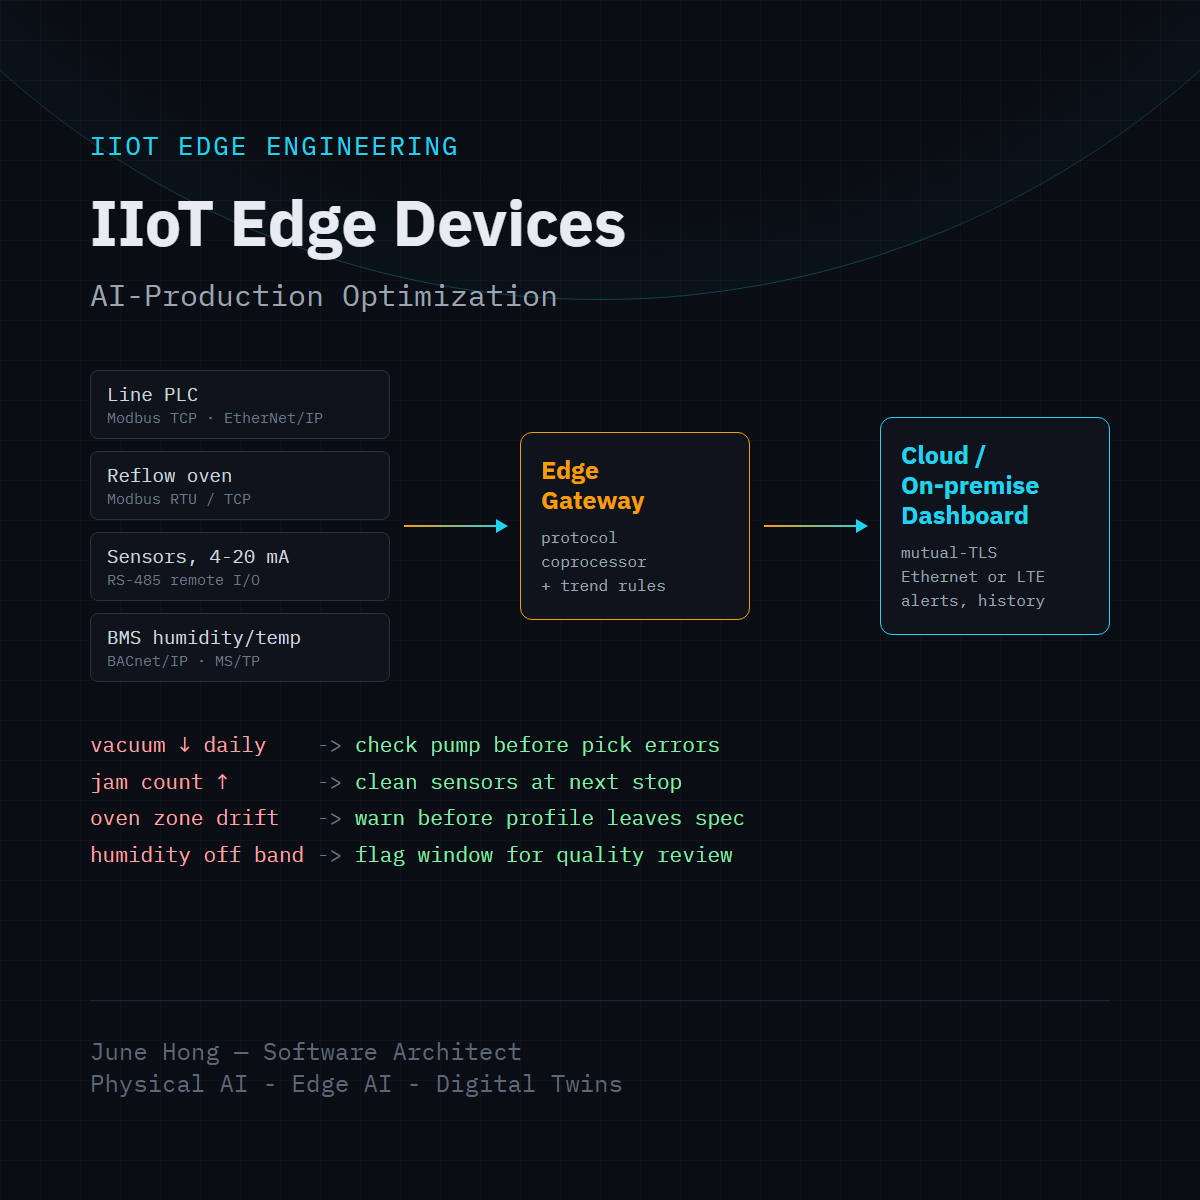
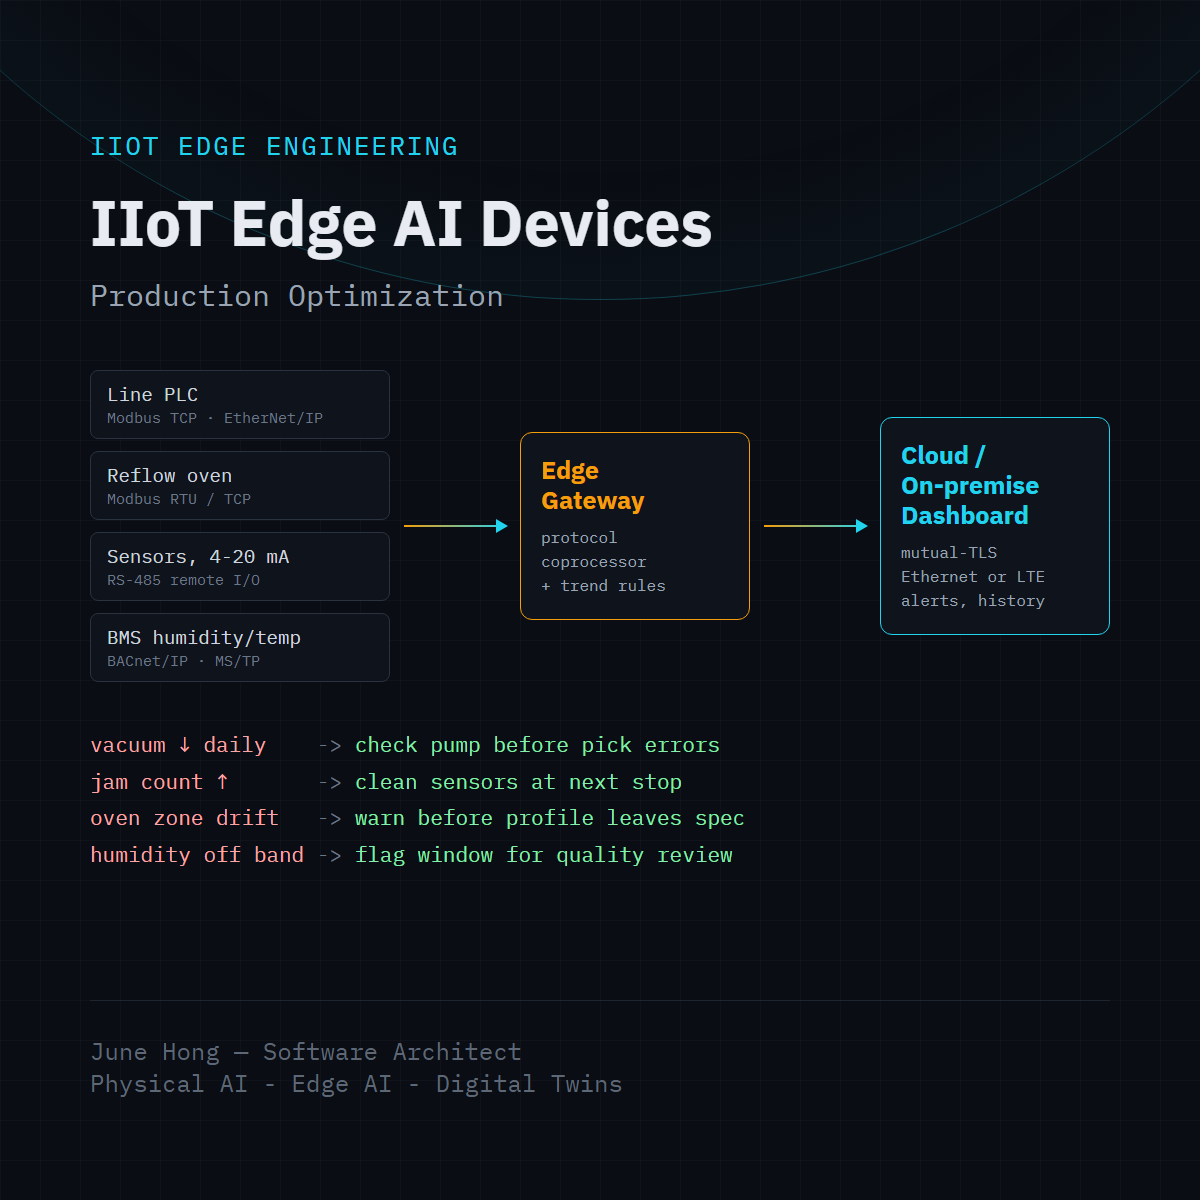
blog: add solar farm management post and retitle IIoT series to Edge AI Devices
Publish the solar-plus-storage IIoT edge gateway article, add its card
to the blog index, and link it from the LinkedIn draft. Rename both
posts, their blog cards and their share images to "IIoT Edge AI Devices"
to match the updated LinkedIn titles.

Changed region(s): [[0.2775, 0.1542, 0.5858, 0.2775], [0.0617, 0.2158, 0.2467, 0.2775], [0.4008, 0.2467, 0.4625, 0.2775]]

diff --git a/posts/2026-09-26-iiot-edge-devices-solar-farm-management.html b/posts/2026-09-26-iiot-edge-devices-solar-farm-management.html
@@ -1,0 +1,250 @@
+<!DOCTYPE html>
+<html lang="en">
+<head>
+  <meta charset="UTF-8" />
+  <meta name="viewport" content="width=device-width, initial-scale=1.0" />
+  <title>IIoT Edge AI Devices: Solar Farm Management – June Hong</title>
+  <link rel="icon" type="image/png" href="../assets/images/JHD.png">
+  <meta name="description" content="How IIoT edge gateways bring inverter, met station, battery, HVAC, fire panel, and EV charger data from a solar-plus-storage site onto one timeline — and where control should and shouldn't run.">
+  <meta name="author" content="June Hong">
+
+  <link rel="preconnect" href="https://fonts.googleapis.com">
+  <link rel="preconnect" href="https://fonts.gstatic.com" crossorigin>
+  <link href="https://fonts.googleapis.com/css2?family=Space+Grotesk:wght@500;600;700&family=IBM+Plex+Mono:wght@400;500;600&family=IBM+Plex+Sans:wght@400;500;600;700&display=swap" rel="stylesheet">
+  <link rel="stylesheet" href="../style.css">
+  <script async src="https://pagead2.googlesyndication.com/pagead/js/adsbygoogle.js?client=ca-pub-5789326916093083"
+     crossorigin="anonymous"></script>
+</head>
+
+<body>
+
+  <!-- Navigation -->
+  <nav>
+    <div class="nav-inner">
+      <a href="../index.html" class="nav-brand">
+        <img src="../assets/images/JHD.png" alt="JH" class="monogram" />
+        <span>June Hong, Dominicus</span>
+      </a>
+      <div class="nav-links">
+        <a href="../index.html">Home</a>
+        <a href="../projects.html">Projects</a>
+        <a href="../blog.html">Blog</a>
+        <a href="https://github.com/junehong-dominicus" target="_blank">GitHub</a>
+        <a href="https://www.linkedin.com/in/junehong-dominicus/" target="_blank">LinkedIn</a>
+      </div>
+    </div>
+  </nav>
+
+  <!-- Article Header -->
+  <header class="article-header">
+    <h1>IIoT Edge AI Devices: Solar Farm Management</h1>
+    <div class="article-meta">
+      By June Hong • <time>2026-09-26</time>
+    </div>
+  </header>
+
+  <main>
+    <article>
+      <p>
+        A solar-plus-storage site has more vendors than people on site. You'll find photovoltaic (PV)
+        inverters, a meteorological (met) station, trackers, a battery energy storage system with its
+        own battery management system (BMS) and power conversion system (PCS), enclosure HVAC, a fire
+        and gas panel, and increasingly EV chargers too. Each one exposes its data differently, and
+        most of these sites are unstaffed.
+      </p>
+      <p>
+        The energy management system (EMS) needs all of it on one timeline, plus a safe way to send
+        set-points back. <strong>That's the job of an edge gateway, the edge device that sits between
+        the field equipment and the dashboard.</strong>
+      </p>
+
+      <div class="diagram-frame">
+        <img src="../images_for_blog/iiot-edge-devices-solar-farm-management-linkedin.png" alt="Diagram of solar inverters, met station, battery BMS and PCS, enclosure HVAC, fire and gas panel, and EV chargers feeding an edge gateway that sends data to a cloud or on-premise dashboard, with example trend-to-action rules" />
+        <p class="diagram-caption">Fig. 1 — Field data from a solar-plus-storage site flows through an edge gateway to a cloud or on-premise dashboard</p>
+      </div>
+
+      <h2>Getting the Data Off the Site</h2>
+      <p>
+        An edge gateway paired with a protocol coprocessor speaks the industrial protocols the site
+        already uses. It can read field devices, and write set-points back to them where the device allows it.
+      </p>
+      <table>
+        <thead>
+          <tr><th>Source</th><th>Protocol</th><th>Typical data points</th></tr>
+        </thead>
+        <tbody>
+          <tr>
+            <td>PV inverters</td>
+            <td>Modbus TCP / RTU (SunSpec register maps)</td>
+            <td>DC string voltage and current, AC active and reactive power, energy totals, fault codes</td>
+          </tr>
+          <tr>
+            <td>Met station and trackers</td>
+            <td>Modbus RTU on RS-485, or 4–20 mA through a remote I/O module</td>
+            <td>Irradiance, module temperature, wind, tracker position and stow state</td>
+          </tr>
+          <tr>
+            <td>Battery BMS and PCS</td>
+            <td>Modbus TCP</td>
+            <td>State of charge (SoC), state of health (SoH), rack temperatures, cell imbalance, PCS mode and output</td>
+          </tr>
+          <tr>
+            <td>Enclosure HVAC</td>
+            <td>BACnet/IP, BACnet MS/TP, Modbus</td>
+            <td>Cooling status and set-points</td>
+          </tr>
+          <tr>
+            <td>Fire and gas panel</td>
+            <td>Modbus, or remote I/O on the panel's auxiliary outputs</td>
+            <td>Alarm, trouble, and supervisory states, gas levels</td>
+          </tr>
+          <tr>
+            <td>EV chargers</td>
+            <td>Open Charge Point Protocol (OCPP 1.6J)</td>
+            <td>Charger status, sessions, meter values</td>
+          </tr>
+        </tbody>
+      </table>
+      <p>
+        One more source matters a lot in practice: <strong>an on-site EMS that has no remote access of
+        its own</strong>. If it exposes its data and set-points as a Modbus TCP server, the gateway
+        polls it like any other device. The EMS keeps making its real-time decisions on site, and gains
+        a remote dashboard, alerts, history, and remote schedule changes without being rewritten.
+      </p>
+
+      <h2>Getting the Data Out Safely</h2>
+      <p>
+        The gateway connects to a cloud or on-premise dashboard over <strong>TLS with mutual
+        certificate authentication</strong>. Each device has its own X.509 certificate, so only
+        provisioned gateways can connect, and every reading can be traced to a specific site and device.
+      </p>
+      <p>
+        The uplink follows the owner's IT policy. Where a site network is available and approved, the
+        gateway uses Ethernet or Wi-Fi. Where the owner wants monitoring kept off their network, or the
+        site is remote, a cellular variant uses its own LTE-M / NB-IoT link. It only makes outbound
+        connections, so it opens no inbound path from the internet into the site.
+      </p>
+
+      <hr />
+
+      <h2>From One Timeline to Real Site Management</h2>
+      <p>
+        Once the data is in one place, management gets concrete:
+      </p>
+      <table>
+        <thead>
+          <tr><th>What's watched</th><th>Trend or event</th><th>Action</th></tr>
+        </thead>
+        <tbody>
+          <tr>
+            <td>Inverter output vs. met data</td>
+            <td>Output falls below what irradiance and temperature predict</td>
+            <td>Check for soiling, string faults, or clipping</td>
+          </tr>
+          <tr>
+            <td>Battery racks</td>
+            <td>Cell imbalance or temperature spread grows on one rack</td>
+            <td>Schedule an inspection before it becomes a derate</td>
+          </tr>
+          <tr>
+            <td>Battery + HVAC</td>
+            <td>A high-power charge or discharge is scheduled</td>
+            <td>Pre-cool the enclosure instead of running HVAC hard afterward</td>
+          </tr>
+          <tr>
+            <td>Fire and gas panel</td>
+            <td>Alarm or trouble state</td>
+            <td>Notify off-site staff in seconds, with site context</td>
+          </tr>
+          <tr>
+            <td>Meter, BMS, PCS, tariff</td>
+            <td>Peak demand or a price signal</td>
+            <td>The EMS sends charge/discharge set-points to the PCS</td>
+          </tr>
+          <tr>
+            <td>Chargers vs. solar and storage</td>
+            <td>Charger load rises</td>
+            <td>See it against available solar output and battery SoC</td>
+          </tr>
+        </tbody>
+      </table>
+
+      <h2>Carbon Credits: The Overlooked Revenue</h2>
+      <p>
+        A solar, storage, and EV charging site produces clean energy, and its chargers displace fossil
+        fuel. Several kinds of program turn that into tradable credits or certificates:
+      </p>
+      <ul>
+        <li>
+          <strong>Low-carbon fuel credits for EV charging</strong>, such as California's Low Carbon Fuel
+          Standard (LCFS), Canada's Clean Fuel Regulations, and Germany's GHG quota. They are earned on
+          the kWh delivered to vehicles.
+        </li>
+        <li>
+          <strong>Renewable energy certificates</strong> for metered solar generation: RECs in North
+          America, Guarantees of Origin in Europe, and I-RECs in many other markets.
+        </li>
+        <li>
+          <strong>Corporate emissions and ESG reporting</strong>, which needs generation, self-consumption,
+          and grid import/export data even where no credit is traded.
+        </li>
+      </ul>
+      <p>
+        Every program asks for the same thing: <strong>measured, time-stamped energy data that an
+        auditor can trace to a specific device</strong>. A gateway that already reads the meters and
+        chargers, and identifies itself with its own device certificate, can supply that data. That can
+        turn a monitoring project into a recurring revenue stream. Eligibility and credit value depend
+        on the program, the region, and who owns the equipment, so each project should confirm them
+        with the program administrator or an aggregator.
+      </p>
+
+      <hr />
+
+      <h2>Three Principles I'm Building In from Day One</h2>
+      <ul>
+        <li>
+          <strong>Put each control function where its response time belongs.</strong> Grid protection,
+          anti-islanding, battery protection, and fire shutdown run in milliseconds inside certified
+          equipment. A round trip to the cloud, especially over cellular, takes hundreds of milliseconds
+          to seconds. That's fine for dispatch, arbitrage, and peak shaving, and far too slow for grid
+          protection. The gateway monitors the safety systems and never replaces them, which is also
+          what lets it be added without re-certifying the site's protection scheme.
+        </li>
+        <li>
+          <strong>The gateway is not a revenue meter.</strong> Credit programs need a meter approved by
+          the local metrology authority. The gateway collects cumulative kWh totals from it, not
+          instantaneous power, so the numbers survive a missed reading. Verification and registration
+          stay with the program operator or aggregator.
+        </li>
+        <li>
+          <strong>Be honest about the interfaces.</strong> Modbus, BACnet, and OCPP are the easy part.
+          Some batteries expose data only over vendor-specific CAN protocols, and utilities may require
+          their own interfaces such as DNP3 or IEEE 2030.5. Those need scoping early, per project.
+        </li>
+      </ul>
+
+      <hr />
+
+      <h2>Final Thoughts</h2>
+      <p>
+        Managing a solar farm well starts with plumbing, not dashboards. Get the inverter, weather,
+        battery, cooling, fire, and charger data onto one secure timeline, keep fast control and
+        protection in the certified equipment on site, and let the gateway carry the supervisory
+        decisions and the energy data that pays for the project.
+      </p>
+    </article>
+  </main>
+
+  <footer>
+    <div class="footer-links">
+      <a href="../index.html">Home</a> |
+      <a href="../projects.html">Projects</a> |
+      <a href="../blog.html">Blog</a> |
+      <a href="../marketing.html">Marketing</a> |
+      <a href="../privacy-policy.html">Privacy Policy</a>
+    </div>
+    <p>© 2026 June Hong — Built with plain HTML & CSS</p>
+  </footer>
+
+</body>
+</html>

diff --git a/blog.html b/blog.html
@@ -65,7 +65,16 @@
         <!-- BLOG_LIST_START -->
 
         <div class="blog-card">
-          <h3>IIoT Edge Devices: AI-Production Optimization on the SMT Line</h3>
+          <h3>IIoT Edge AI Devices: Solar Farm Management</h3>
+          <p>How edge gateways bring inverter, weather, battery, cooling, fire panel, and EV charger data from a solar-plus-storage site onto one secure timeline — plus where control belongs and how the same data supports carbon credits.</p>
+          <div class="blog-meta">
+            <span>2026-09-26</span>
+            <a class="read-more" href="posts/2026-09-26-iiot-edge-devices-solar-farm-management.html">Read more →</a>
+          </div>
+        </div>
+
+        <div class="blog-card">
+          <h3>IIoT Edge AI Devices: Production Optimization on the SMT Line</h3>
           <p>How edge gateways bring PLC, reflow oven, sensor, and building data from a surface-mount line onto one secure timeline — and why trend-based maintenance comes before AI.</p>
           <div class="blog-meta">
             <span>2026-09-26</span>

diff --git a/posts/2026-09-26-iiot-edge-devices-ai-production-optimization.html b/posts/2026-09-26-iiot-edge-devices-ai-production-optimization.html
@@ -3,7 +3,7 @@
 <head>
   <meta charset="UTF-8" />
   <meta name="viewport" content="width=device-width, initial-scale=1.0" />
-  <title>IIoT Edge Devices: AI-Production Optimization on the SMT Line – June Hong</title>
+  <title>IIoT Edge AI Devices: Production Optimization on the SMT Line – June Hong</title>
   <link rel="icon" type="image/png" href="../assets/images/JHD.png">
   <meta name="description" content="How IIoT edge gateways bring PLC, oven, sensor, and building data from a surface-mount technology line onto one timeline — and why trend-based maintenance comes before AI.">
   <meta name="author" content="June Hong">
@@ -37,7 +37,7 @@
 
   <!-- Article Header -->
   <header class="article-header">
-    <h1>IIoT Edge Devices: AI-Production Optimization on the SMT Line</h1>
+    <h1>IIoT Edge AI Devices: Production Optimization on the SMT Line</h1>
     <div class="article-meta">
       By June Hong • <time>2026-09-26</time>
     </div>

diff --git a/posts/linkedin-iiot-edge-devices-ai-production-optimization.md b/posts/linkedin-iiot-edge-devices-ai-production-optimization.md
@@ -1,12 +1,12 @@
-# LinkedIn Post Draft — IIoT Edge Devices: AI-Production Optimization
+# LinkedIn Post Draft — IIoT Edge AI Devices: Production Optimization
 
-Companion article: [IIoT Edge Devices: AI-Production Optimization on the SMT Line](https://junehong-dominicus.github.io/posts/2026-09-26-iiot-edge-devices-ai-production-optimization.html)
+Companion article: [IIoT Edge AI Devices: Production Optimization on the SMT Line](https://junehong-dominicus.github.io/posts/2026-09-26-iiot-edge-devices-ai-production-optimization.html)
 
 Image: `images_for_blog/iiot-edge-devices-ai-production-optimization-linkedin.png` (1200×1200)
 
 ---
 
-**IIoT Edge Devices — AI-Production Optimization**
+**IIoT Edge AI Devices — Production Optimization**
 
 Walk down a surface-mount technology (SMT) line and count the controllers: printer, solder paste inspection (SPI), pick-and-place, reflow oven, automated optical inspection (AOI), conveyors. Each one comes from a different vendor and exposes its data a different way. The room's temperature and humidity sit in yet another system, the building management system (BMS).
 

diff --git a/posts/linkedin-iiot-edge-devices-solar-farm-management.md b/posts/linkedin-iiot-edge-devices-solar-farm-management.md
@@ -1,10 +1,12 @@
-# LinkedIn Post Draft — IIoT Edge Devices: Solar Farm Management
+# LinkedIn Post Draft — IIoT Edge AI Devices: Solar Farm Management
+
+Companion article: [IIoT Edge AI Devices: Solar Farm Management](https://junehong-dominicus.github.io/posts/2026-09-26-iiot-edge-devices-solar-farm-management.html)
 
 Image: `images_for_blog/iiot-edge-devices-solar-farm-management-linkedin.png` (1200×1200)
 
 ---
 
-**IIoT Edge Devices — Solar Farm Management**
+**IIoT Edge AI Devices — Solar Farm Management**
 
 A solar-plus-storage site has more vendors than people on site: photovoltaic (PV) inverters, a meteorological (met) station, trackers, a battery system, enclosure HVAC, a fire and gas panel, and now EV chargers. Each exposes its data differently, and most sites are unstaffed.
 
